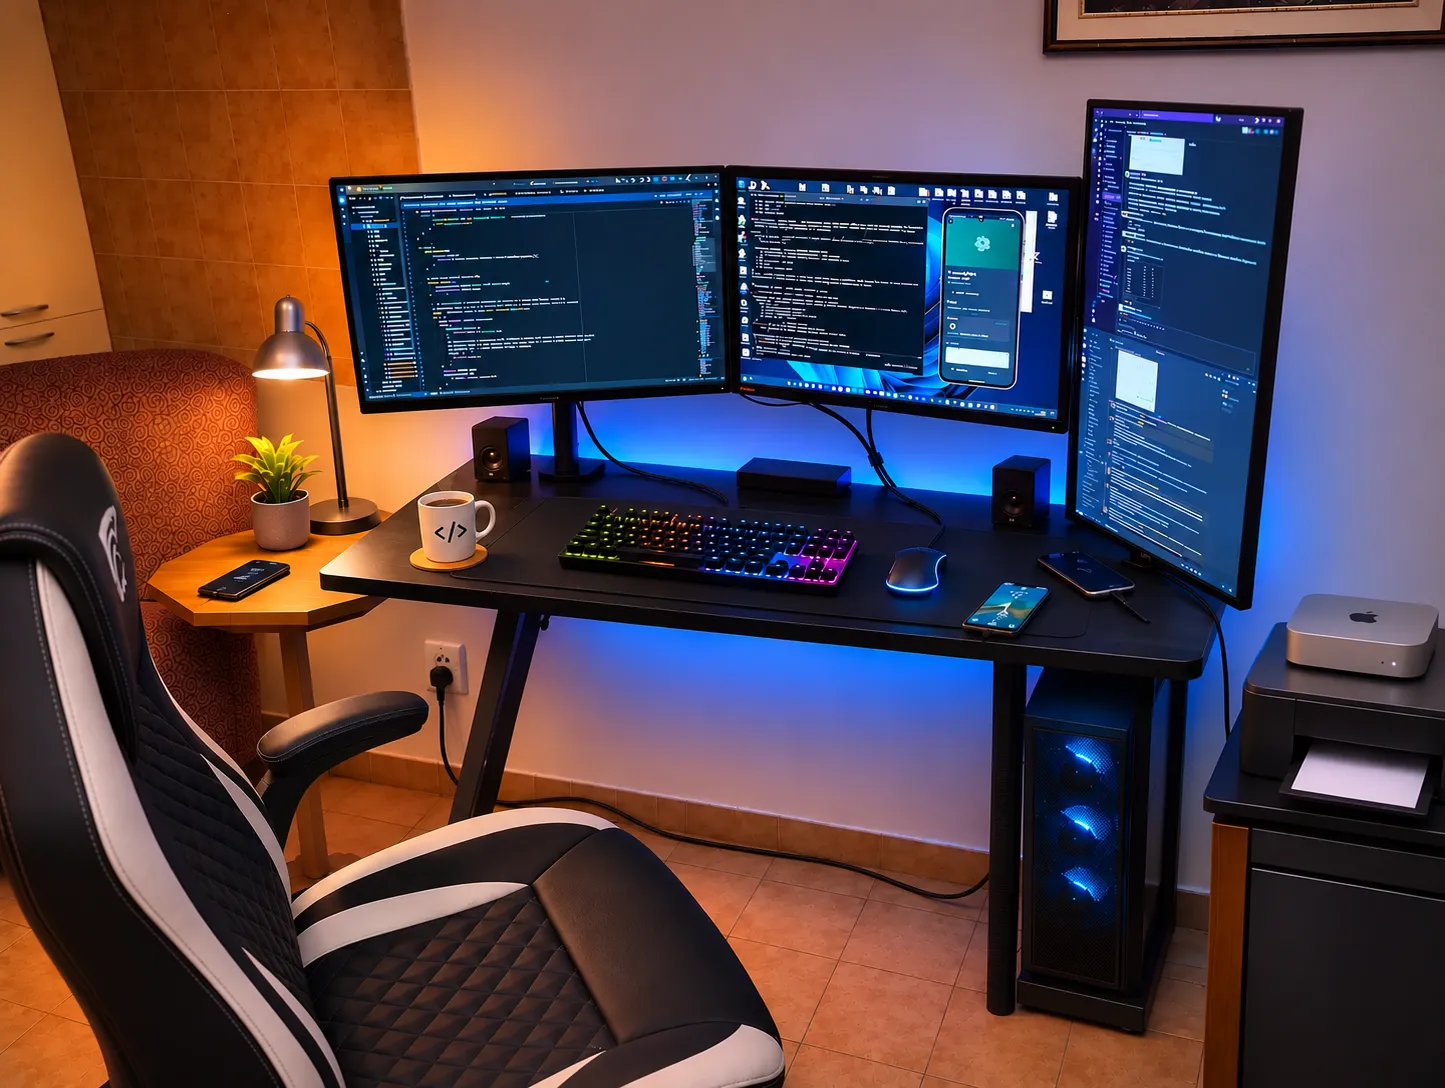
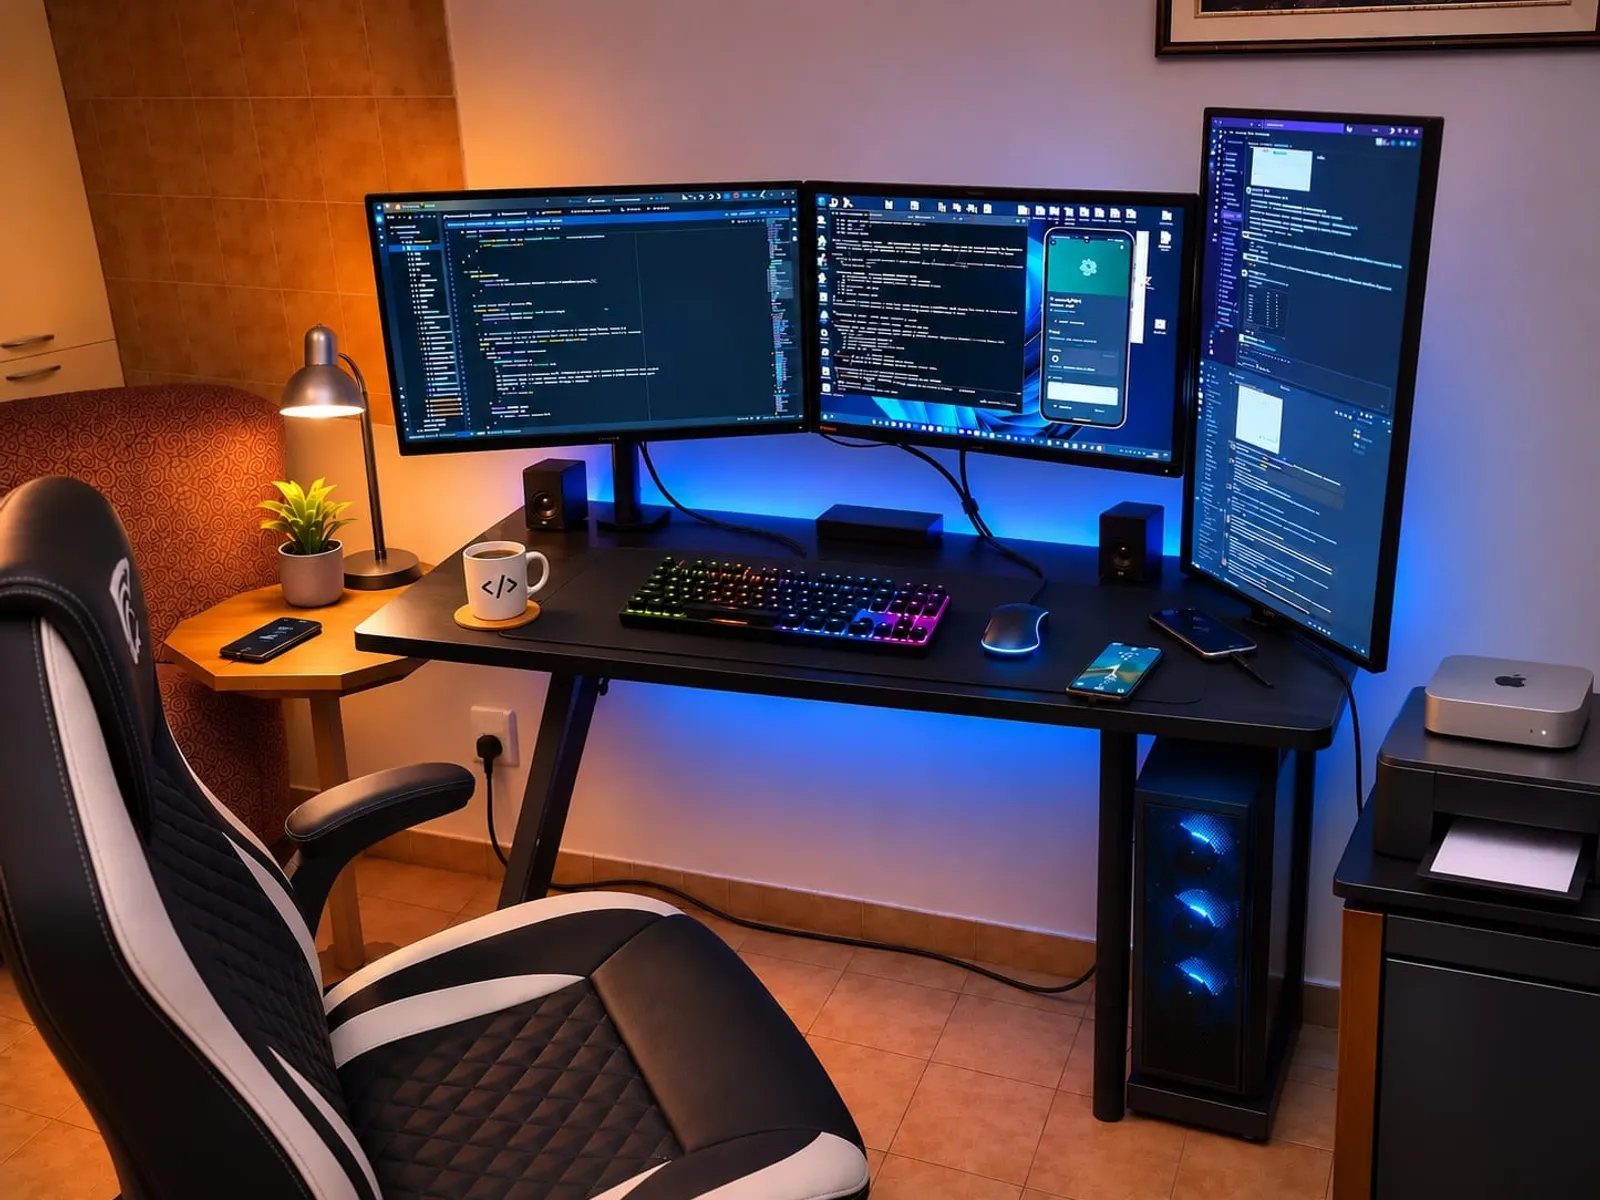
Services architecture diagram; About workspace photo with depth and hotspots
- Services hero: Multiplatform core wired to Native/Web/Data/Logic with
  travelling data packets; hover lights a node's wire.
- About: new workspace photo; photo, orange block and blue LED glow move at
  different depths with the pointer; pulsing hotspots with notes on the setup
  (mouse, touch and keyboard). Fixes the orange block rendering behind the header.
- main.css: keyframes for the above, custom cursor styles removed.

diff --git a/components/about/WorkspaceShowcase.tsx b/components/about/WorkspaceShowcase.tsx
@@ -1,0 +1,127 @@
+'use client'
+
+import { useEffect, useRef, useState } from 'react'
+import Image from 'next/image'
+import { m, useMotionValue, useSpring, useTransform } from 'motion/react'
+import workspace from '@/public/about/workspace.webp'
+import { ClipReveal } from '@/components/motion/ClipReveal'
+import { useHydratedReducedMotion } from '@/components/motion/useHydratedReducedMotion'
+
+/**
+ * Hotspots on the workspace photo. x/y are percentages of the photo (it is shown at its own
+ * 4:3 ratio, so they stay on target at any size). Edit the text freely.
+ */
+const HOTSPOTS = [
+  { x: 36.5, y: 27, title: 'Main screen', text: 'Android Studio: the shared Kotlin Multiplatform module, written once for Android and iOS.' },
+  { x: 68, y: 27, title: 'Emulator', text: 'Every change is checked on a running device, not just in the IDE.' },
+  { x: 49, y: 50, title: 'Keyboard', text: 'RGB mechanical keyboard: prompting Claude Code and reviewing every change before it ships.' },
+  { x: 75, y: 76, title: 'Workstation', text: 'Windows tower for Android builds, emulators and backend work.' },
+  { x: 93, y: 58, title: 'Mac mini', text: 'Xcode and iOS builds for the multiplatform apps.' },
+]
+
+/**
+ * About "My Journey" visual: the photo, the orange offset block and a blue LED glow move at
+ * different depths with the cursor; pulsing hotspots open short notes about the setup.
+ */
+export function WorkspaceShowcase() {
+  const root = useRef<HTMLDivElement>(null)
+  const reduce = useHydratedReducedMotion()
+  const [open, setOpen] = useState<number | null>(null)
+
+  const px = useMotionValue(0), py = useMotionValue(0)
+  const sx = useSpring(px, { stiffness: 70, damping: 18, mass: 0.6 })
+  const sy = useSpring(py, { stiffness: 70, damping: 18, mass: 0.6 })
+  // Depth layers: glow furthest back (moves most, opposite way), photo in front.
+  const glowX = useTransform(sx, (v) => v * -40), glowY = useTransform(sy, (v) => v * -40)
+  const blockX = useTransform(sx, (v) => v * -22), blockY = useTransform(sy, (v) => v * -22)
+  const photoX = useTransform(sx, (v) => v * 14), photoY = useTransform(sy, (v) => v * 14)
+
+  const onMove = (e: React.PointerEvent) => {
+    if (reduce || e.pointerType !== 'mouse' || !root.current) return
+    const r = root.current.getBoundingClientRect()
+    px.set((e.clientX - r.left) / r.width - 0.5)
+    py.set((e.clientY - r.top) / r.height - 0.5)
+  }
+  const onLeave = () => { px.set(0); py.set(0); setOpen(null) }
+
+  // Close an open hotspot on Escape or a tap elsewhere.
+  useEffect(() => {
+    if (open === null) return
+    const key = (e: KeyboardEvent) => { if (e.key === 'Escape') setOpen(null) }
+    const tap = (e: PointerEvent) => { if (!(e.target as Element).closest?.('[data-hotspot]')) setOpen(null) }
+    document.addEventListener('keydown', key)
+    document.addEventListener('pointerdown', tap)
+    return () => { document.removeEventListener('keydown', key); document.removeEventListener('pointerdown', tap) }
+  }, [open])
+
+  return (
+    <div ref={root} className="relative isolate" onPointerMove={onMove} onPointerLeave={onLeave}>
+      {/* Blue LED glow, matched to the desk's backlight */}
+      <m.div aria-hidden="true" style={{ x: glowX, y: glowY }} className="absolute -inset-6 -z-20">
+        <div className={`w-full h-full rounded-[40%] bg-[radial-gradient(ellipse_at_60%_55%,rgba(64,110,255,.55),rgba(64,110,255,0)_70%)] blur-2xl ${reduce ? 'opacity-60' : 'animate-[led-breathe_5s_ease-in-out_infinite]'}`} />
+      </m.div>
+
+      {/* Orange offset block */}
+      <m.div aria-hidden="true" style={{ x: blockX, y: blockY }} className="absolute inset-0 -z-10">
+        <div className="w-full h-full bg-brand-orange -translate-x-4 translate-y-4 rounded-sharp" />
+      </m.div>
+
+      {/* Photo + hotspots */}
+      <m.div style={{ x: photoX, y: photoY }}>
+        <ClipReveal delay={0.3} className="rounded-sharp border-4 border-brand-green overflow-hidden">
+          <div className="relative">
+            <Image
+              src={workspace}
+              alt="My workspace: three monitors with code and an Android emulator, an RGB mechanical keyboard, a desktop PC and a Mac mini, lit by a blue LED strip"
+              placeholder="blur"
+              preload
+              sizes="(min-width: 1280px) 600px, (min-width: 768px) 50vw, 100vw"
+              className="w-full h-auto aspect-[4/3] object-cover"
+            />
+            {HOTSPOTS.map((h, i) => {
+              const isOpen = open === i
+              // Keep tooltips inside the photo: anchor to the side away from the nearest edge.
+              const align = h.x > 70 ? 'right-0' : h.x < 30 ? 'left-0' : 'left-1/2 -translate-x-1/2'
+              const below = h.y < 35 // near the top: open downward so the photo edge doesn't clip it
+              return (
+                <div
+                  key={h.title}
+                  data-hotspot
+                  className="absolute -translate-x-1/2 -translate-y-1/2"
+                  style={{ left: `${h.x}%`, top: `${h.y}%`, zIndex: isOpen ? 20 : 10 }}
+                  onPointerEnter={(e) => { if (e.pointerType === 'mouse') setOpen(i) }}
+                  onPointerLeave={(e) => { if (e.pointerType === 'mouse') setOpen((o) => (o === i ? null : o)) }}
+                >
+                  <button
+                    type="button"
+                    aria-label={`${h.title}: ${h.text}`}
+                    aria-expanded={isOpen}
+                    onClick={() => setOpen(isOpen ? null : i)}
+                    onFocus={() => setOpen(i)}
+                    onBlur={() => setOpen((o) => (o === i ? null : o))}
+                    className="relative grid place-items-center w-7 h-7 rounded-full cursor-pointer focus:outline-none focus-visible:ring-2 focus-visible:ring-white"
+                  >
+                    {!reduce && <span aria-hidden="true" className="absolute inset-0 rounded-full bg-brand-orange animate-[hotspot-ping_2.4s_ease-out_infinite]" style={{ animationDelay: `${i * 0.4}s` }} />}
+                    <span aria-hidden="true" className={`relative w-3.5 h-3.5 rounded-full border-2 border-white shadow-[0_0_12px_rgba(255,184,0,.9)] transition-[background-color,scale] duration-200 ${isOpen ? 'bg-white scale-125' : 'bg-brand-orange'}`} />
+                  </button>
+                  <div
+                    role="tooltip"
+                    aria-hidden={!isOpen}
+                    className={`absolute ${align} ${below ? 'top-full mt-2' : 'bottom-full mb-2'} w-56 rounded-xl bg-brand-dark/90 backdrop-blur-md border border-white/15 px-4 py-3 text-left shadow-2xl pointer-events-none transition-[opacity,translate] duration-200 ${
+                      isOpen ? 'opacity-100 translate-y-0' : `opacity-0 ${below ? '-translate-y-1' : 'translate-y-1'}`
+                    }`}
+                  >
+                    <span className="block text-[11px] font-bold uppercase tracking-widest text-brand-orange mb-1">{h.title}</span>
+                    <span className="block text-sm leading-snug text-white/90">{h.text}</span>
+                  </div>
+                </div>
+              )
+            })}
+          </div>
+        </ClipReveal>
+      </m.div>
+
+      <p className="mt-6 text-xs text-white/50 hidden sm:block" aria-hidden="true">Hover the dots to explore the setup.</p>
+    </div>
+  )
+}

diff --git a/components/services/SystemDiagram.tsx b/components/services/SystemDiagram.tsx
@@ -1,0 +1,155 @@
+'use client'
+
+import { useEffect, useRef, useState, type ComponentType } from 'react'
+import { m } from 'motion/react'
+import { Smartphone, Globe, Database, Cpu, Layers } from 'lucide-react'
+import { visibleLoop } from '@/components/motion/canvas'
+import { useHydratedReducedMotion } from '@/components/motion/useHydratedReducedMotion'
+
+/**
+ * Services hero visual: an architecture map. Multiplatform sits at the core, wired to the four
+ * disciplines; orange data packets travel along the wires, and hovering a node lights its wire.
+ *
+ * Everything is laid out in one 500×400 coordinate space (the box keeps that aspect ratio), so
+ * the SVG wires and the HTML nodes line up at any width without measuring.
+ */
+const W = 500, H = 400
+const CORE = { x: 250, y: 200 }
+
+type Node = { key: string; label: string; x: number; y: number; Icon: ComponentType<{ className?: string }> }
+const NODES: Node[] = [
+  { key: 'native', label: 'Native', x: 88, y: 78, Icon: Smartphone },
+  { key: 'web', label: 'Web', x: 412, y: 78, Icon: Globe },
+  { key: 'data', label: 'Data', x: 88, y: 322, Icon: Database },
+  { key: 'logic', label: 'Logic', x: 412, y: 322, Icon: Cpu },
+]
+
+// S-curve from the core out to a node.
+const wire = ({ x, y }: Node) => {
+  const mx = (CORE.x + x) / 2
+  return `M${CORE.x},${CORE.y} C${mx},${CORE.y} ${mx},${y} ${x},${y}`
+}
+
+const pct = (v: number, of: number) => `${(v / of) * 100}%`
+
+export function SystemDiagram() {
+  const box = useRef<HTMLDivElement>(null)
+  const paths = useRef<(SVGPathElement | null)[]>([])
+  const dots = useRef<(SVGCircleElement | null)[]>([])
+  const hotRef = useRef<string | null>(null)
+  const [hot, setHot] = useState<string | null>(null)
+  const reduce = useHydratedReducedMotion()
+
+  useEffect(() => { hotRef.current = hot }, [hot])
+
+  // Two packets per wire: one heading out from the core, one coming back in.
+  useEffect(() => {
+    const el = box.current
+    if (!el) return
+    const packets = NODES.flatMap((n, i) => [0, 1].map((j) => ({
+      wire: i, key: n.key, out: j === 0, t: (i * 0.23 + j * 0.5) % 1, speed: 0.0035 + ((i + j) % 3) * 0.0012,
+    })))
+    const lengths = paths.current.map((p) => p?.getTotalLength() ?? 0)
+    const place = () => packets.forEach((k, i) => {
+      const p = paths.current[k.wire], c = dots.current[i]
+      if (!p || !c) return
+      const pt = p.getPointAtLength((k.out ? k.t : 1 - k.t) * lengths[k.wire])
+      c.setAttribute('cx', String(pt.x))
+      c.setAttribute('cy', String(pt.y))
+      // Fade in/out at the ends so packets don't pop.
+      c.style.opacity = String(Math.min(1, k.t * 6, (1 - k.t) * 6) * (hotRef.current && hotRef.current !== k.key ? 0.35 : 1))
+    })
+    place()
+    if (reduce) return
+    return visibleLoop(el, () => {
+      for (const k of packets) k.t = (k.t + k.speed * (hotRef.current === k.key ? 2.2 : 1)) % 1
+      place()
+    })
+  }, [reduce])
+
+  return (
+    <div
+      ref={box}
+      className="relative w-full max-w-[560px] mx-auto"
+      style={{ aspectRatio: `${W} / ${H}` }}
+      onPointerLeave={() => setHot(null)}
+    >
+      {/* soft glow behind the core */}
+      <div aria-hidden="true" className="absolute left-1/2 top-1/2 w-2/3 aspect-square -translate-x-1/2 -translate-y-1/2 rounded-full bg-brand-orange/15 blur-3xl" />
+
+      <svg aria-hidden="true" viewBox={`0 0 ${W} ${H}`} className="absolute inset-0 w-full h-full overflow-visible">
+        <defs>
+          <filter id="pkt-glow" x="-200%" y="-200%" width="500%" height="500%">
+            <feGaussianBlur stdDeviation="2.5" result="b" />
+            <feMerge><feMergeNode in="b" /><feMergeNode in="SourceGraphic" /></feMerge>
+          </filter>
+        </defs>
+        {NODES.map((n, i) => (
+          <g key={n.key}>
+            {/* faint dashed track */}
+            <path d={wire(n)} fill="none" stroke="rgba(255,255,255,.08)" strokeWidth={6} strokeLinecap="round" />
+            <m.path
+              ref={(el: SVGPathElement | null) => { paths.current[i] = el }}
+              d={wire(n)}
+              fill="none"
+              strokeWidth={1.5}
+              strokeLinecap="round"
+              className="transition-[stroke] duration-300"
+              stroke={hot === n.key ? 'var(--color-brand-orange)' : 'rgba(255,255,255,.22)'}
+              initial={{ pathLength: 0 }}
+              animate={{ pathLength: 1 }}
+              transition={{ duration: 1.1, delay: 0.5 + i * 0.12, ease: [0.22, 1, 0.36, 1] }}
+            />
+          </g>
+        ))}
+        {NODES.flatMap((n, i) => [0, 1].map((j) => (
+          <circle
+            key={`${n.key}-${j}`}
+            ref={(el) => { dots.current[i * 2 + j] = el }}
+            r={j === 0 ? 3.5 : 2.5}
+            fill="var(--color-brand-orange)"
+            filter="url(#pkt-glow)"
+            style={{ opacity: 0 }}
+          />
+        )))}
+      </svg>
+
+      {/* Core */}
+      <m.div
+        className="absolute -translate-x-1/2 -translate-y-1/2"
+        style={{ left: pct(CORE.x, W), top: pct(CORE.y, H), width: '30%' }}
+        initial={{ opacity: 0, scale: 0.6 }}
+        animate={{ opacity: 1, scale: 1 }}
+        transition={{ duration: 0.7, delay: 0.3, ease: [0.22, 1, 0.36, 1] }}
+      >
+        <div className="relative aspect-square rounded-full border-2 border-brand-orange bg-brand-green/80 backdrop-blur-sm shadow-[0_0_40px_-6px_var(--color-brand-orange)] flex flex-col items-center justify-center gap-2">
+          {!reduce && <span aria-hidden="true" className="absolute inset-0 rounded-full border border-brand-orange/60 animate-[core-pulse_2.8s_ease-out_infinite]" />}
+          <Layers className="w-9 h-9 text-brand-orange" />
+          <span className="text-[11px] font-bold uppercase tracking-widest text-white">Multiplatform</span>
+        </div>
+      </m.div>
+
+      {/* Satellite nodes */}
+      {NODES.map((n, i) => (
+        <m.div
+          key={n.key}
+          className="absolute -translate-x-1/2 -translate-y-1/2"
+          style={{ left: pct(n.x, W), top: pct(n.y, H), width: '24%' }}
+          initial={{ opacity: 0, y: 16 }}
+          animate={{ opacity: 1, y: 0 }}
+          transition={{ duration: 0.6, delay: 0.45 + i * 0.1, ease: [0.22, 1, 0.36, 1] }}
+          onPointerEnter={() => setHot(n.key)}
+        >
+          <div
+            className={`aspect-square rounded-sharp border bg-white/5 backdrop-blur-sm flex flex-col items-center justify-center gap-2 transition-[border-color,background-color,translate,box-shadow] duration-300 ${
+              hot === n.key ? 'border-brand-orange bg-white/10 -translate-y-1 shadow-[0_12px_30px_-12px_var(--color-brand-orange)]' : 'border-white/20'
+            }`}
+          >
+            <n.Icon className="w-8 h-8 text-brand-orange" />
+            <span className={`text-xs font-bold uppercase tracking-widest transition-colors duration-300 ${hot === n.key ? 'text-white' : 'text-white/60'}`}>{n.label}</span>
+          </div>
+        </m.div>
+      ))}
+    </div>
+  )
+}

diff --git a/app/main.css b/app/main.css
@@ -247,22 +247,6 @@
       .btn-fill:hover::before, .btn-fill:focus-visible::before { width: 260%; height: 520%; }
       .btn-fill:hover, .btn-fill:focus-visible { color: var(--fill-ink, var(--color-brand-dark)); }
 
-      /* I2 site cursor */
-      .site-cursor { position: fixed; inset: 0; pointer-events: none; z-index: 9999; }
-      .site-cursor-dot, .site-cursor-ring { position: fixed; left: 0; top: 0; border-radius: 9999px; opacity: 0; transition: opacity 0.2s; }
-      :root[data-cursor="on"] .site-cursor-dot, :root[data-cursor="on"] .site-cursor-ring { opacity: 1; }
-      .site-cursor-dot { width: 6px; height: 6px; margin: -3px 0 0 -3px; background: var(--color-brand-orange); }
-      .site-cursor-ring {
-        width: 34px; height: 34px; margin: -17px 0 0 -17px; border: 1.5px solid color-mix(in srgb, var(--ink) 55%, transparent);
-        display: grid; place-items: center; font-size: 11px; font-weight: 800; letter-spacing: 0.06em; text-transform: uppercase; color: var(--color-brand-dark);
-        transition: opacity 0.2s, width 0.35s cubic-bezier(0.22, 1, 0.36, 1), height 0.35s cubic-bezier(0.22, 1, 0.36, 1), margin 0.35s cubic-bezier(0.22, 1, 0.36, 1), background-color 0.25s, border-color 0.25s, scale 0.2s;
-      }
-      .site-cursor-ring span { opacity: 0; transition: opacity 0.2s; }
-      .site-cursor-ring[data-state="link"] { width: 54px; height: 54px; margin: -27px 0 0 -27px; border-color: var(--color-brand-orange); background: color-mix(in srgb, var(--color-brand-orange) 18%, transparent); }
-      .site-cursor-ring[data-state="media"] { width: 84px; height: 84px; margin: -42px 0 0 -42px; border-color: var(--color-brand-orange); background: var(--color-brand-orange); }
-      .site-cursor-ring[data-state="media"] span { opacity: 1; }
-      .site-cursor-ring[data-pressed] { scale: 0.85; }
-      :root[data-cursor="on"] [data-cursor], :root[data-cursor="on"] [data-cursor] * { cursor: none; }
 
       /* C2 glow cards: put .glow-group on the grid and .glow-card on each card */
       .glow-card { position: relative; isolation: isolate; --mx: -999px; --my: -999px; }
@@ -287,6 +271,12 @@
 
       /* C4 quote progress */
       @keyframes quote-progress { from { transform: scaleX(0); } to { transform: scaleX(1); } }
+      /* Services system diagram: ring expanding out of the Multiplatform core */
+      @keyframes core-pulse { 0% { transform: scale(1); opacity: 0.8; } 100% { transform: scale(1.45); opacity: 0; } }
+      /* About workspace: blue LED glow breathing behind the photo */
+      @keyframes led-breathe { 0%, 100% { opacity: 0.45; transform: scale(0.96); } 50% { opacity: 0.85; transform: scale(1.04); } }
+      /* About workspace hotspots */
+      @keyframes hotspot-ping { 0% { transform: scale(1); opacity: 0.7; } 80%, 100% { transform: scale(2.4); opacity: 0; } }
       .quote-progress { animation: quote-progress linear forwards; transform: scaleX(0); }
 
       /* S3 timeline */

diff --git a/app/(main)/services/ServiceClient.tsx b/app/(main)/services/ServiceClient.tsx
@@ -1,5 +1,6 @@
 "use client";
-import { Smartphone, Globe, Database, Cpu, Layers, Check, ArrowRight } from 'lucide-react'
+import { Check, ArrowRight } from 'lucide-react'
+import { SystemDiagram } from '@/components/services/SystemDiagram'
 import { m } from 'motion/react'
 import { SplitText } from '@/components/motion/SplitText'
 import { StackCards } from '@/components/motion/StackCards'
@@ -31,29 +32,8 @@ const ServiceClient = () => {
                 </p>
             </m.div>
             <m.div variants={fadeInUp} className="hidden md:block relative">
-                <div className="absolute inset-0 bg-brand-orange/10 rounded-full blur-3xl"></div>
-                <div className="relative grid grid-cols-2 gap-4 opacity-80">
-                    <div className="h-32 border border-white/20 rounded-sharp flex flex-col items-center justify-center gap-2 bg-white/5 backdrop-blur-sm">
-                        <Smartphone className="w-8 h-8 text-brand-orange" />
-                        <span className="text-xs font-bold uppercase tracking-widest text-white/50">Native</span>
-                    </div>
-                    <div className="h-32 border border-white/20 rounded-sharp flex flex-col items-center justify-center gap-2 bg-white/5 backdrop-blur-sm translate-y-8">
-                        <Globe className="w-8 h-8 text-brand-orange" />
-                        <span className="text-xs font-bold uppercase tracking-widest text-white/50">Web</span>
-                    </div>
-                    <div className="h-32 border border-white/20 rounded-sharp flex flex-col items-center justify-center gap-2 bg-white/5 backdrop-blur-sm -translate-y-8">
-                        <Database className="w-8 h-8 text-brand-orange" />
-                        <span className="text-xs font-bold uppercase tracking-widest text-white/50">Data</span>
-                    </div>
-                    <div className="h-32 border border-white/20 rounded-sharp flex flex-col items-center justify-center gap-2 bg-white/5 backdrop-blur-sm">
-                        <Cpu className="w-8 h-8 text-brand-orange" />
-                        <span className="text-xs font-bold uppercase tracking-widest text-white/50">Logic</span>
-                    </div>
-                    <div className="h-32 border border-white/20 rounded-sharp flex flex-col items-center justify-center gap-2 bg-white/5 backdrop-blur-sm -translate-y-16">
-                        <Layers className="w-8 h-8 text-brand-orange" />
-                        <span className="text-xs font-bold uppercase tracking-widest text-white/50">Multiplatform</span>
-                    </div>
-                </div>
+                {/* Architecture map: Multiplatform core wired to the four disciplines */}
+                <SystemDiagram />
             </m.div>
         </div>
     </m.header>

diff --git a/app/(main)/about/AboutClient.tsx b/app/(main)/about/AboutClient.tsx
@@ -1,11 +1,9 @@
 "use client";
 import { Microscope, Code2, Gauge } from 'lucide-react'
 import { m } from 'motion/react'
-import Image from 'next/image'
-import workspace from '@/public/about/workspace.webp'
+import { WorkspaceShowcase } from '@/components/about/WorkspaceShowcase'
 import { fadeInUp, staggerContainer } from '@/lib/motion'
 import { SplitText } from '@/components/motion/SplitText'
-import { ClipReveal } from '@/components/motion/ClipReveal'
 import { ScrollHighlight } from '@/components/motion/ScrollHighlight'
 import { Timeline, TimelineItem } from '@/components/motion/Timeline'
 
@@ -39,16 +37,9 @@ const AboutClient = () => {
                     </a>
                 </div>
             </m.div>
-            <m.div variants={fadeInUp} className="relative">
-                <div className="absolute inset-0 bg-brand-orange -translate-x-4 translate-y-4 rounded-sharp -z-10"></div>
-                <ClipReveal delay={0.3} className="rounded-sharp border-4 border-brand-green overflow-hidden">
-                    <Image src={workspace}
-                         alt="My workspace: three monitors with code and an Android emulator, a mechanical keyboard, a desktop PC and a Mac mini"
-                         placeholder="blur"
-                         preload
-                         sizes="(min-width: 1280px) 600px, (min-width: 768px) 50vw, 100vw"
-                         className="w-full h-auto aspect-[4/3] object-cover" />
-                </ClipReveal>
+            <m.div variants={fadeInUp}>
+                {/* Workspace photo: depth parallax, LED glow and hotspots */}
+                <WorkspaceShowcase />
             </m.div>
         </div>
     </m.header>
